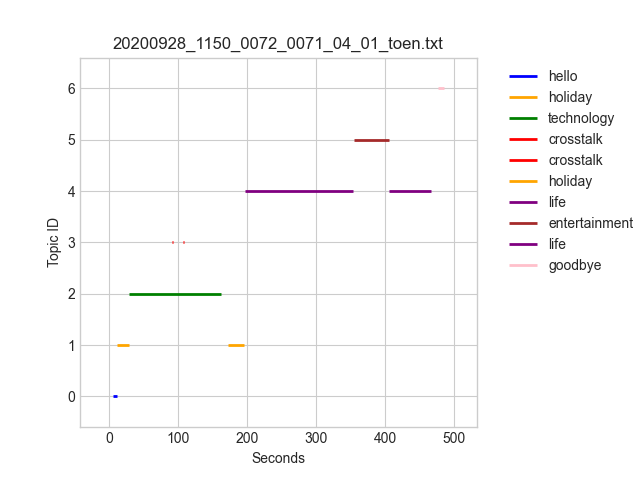
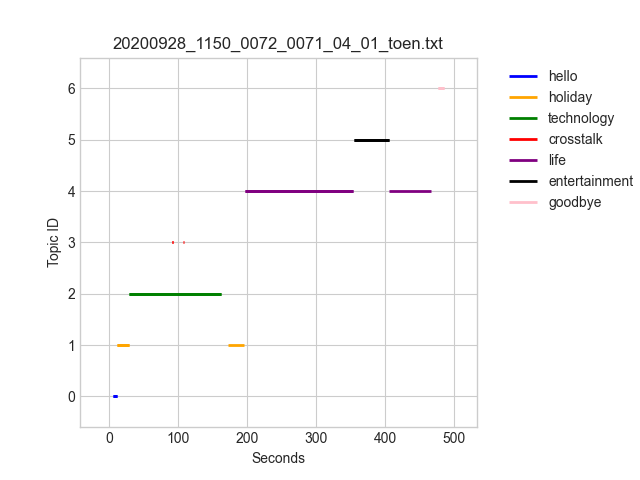
minor change

diff --git a/analysing_topics/visualization_script.py b/analysing_topics/visualization_script.py
@@ -19,6 +19,7 @@ def main():
     uttname = '20200925_1525_0087_0088_01_01_toen.txt'
     uttname = '20200928_1150_0072_0071_04_01_toen.txt'
     topic_dict = {}
+    topic_dict2 = {}
     Segment = namedtuple('Segment', 'reco topic topicid start end type')
     segments = []
     for line in text_file_data:
@@ -59,10 +60,13 @@ def main():
     fig = plt.figure()
     ax = plt.axes()
 
-    c = ['blue', 'orange', 'green', 'red', 'purple', 'brown', 'pink', 'yellow', 'cyan', 'magenta']
+    # c = ['blue', 'yellow', 'green', 'red', 'pink', 'sky', 'mallow', 'black', 'khaki', 'magenta']
+    c = ['blue', 'orange', 'green', 'red', 'purple', 'black', 'yellow', 'pink', 'cyan', 'magenta']
     for _, seg in enumerate(segments):
-        # print("Topic {}: {} start {} end".format(seg.topicid, seg.start, seg.end))
-        ax.hlines(y=seg.topicid, xmin=seg.start, xmax=seg.end, label=seg.topic, linewidth=2, color=c[seg.topicid% 10])
+        if seg.topic not in topic_dict2:
+            topic_dict2[seg.topic] = len(topic_dict2)
+            ax.hlines(y=seg.topicid, xmin=seg.start, xmax=seg.end, label=seg.topic, linewidth=2, color=c[seg.topicid% 10])
+        ax.hlines(y=seg.topicid, xmin=seg.start, xmax=seg.end, linewidth=2, color=c[seg.topicid% 10])
     
     ax.autoscale()
     ax.margins(0.1)
